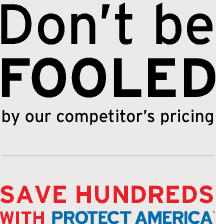
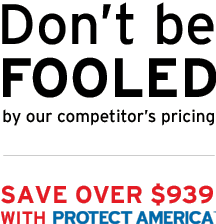
changed the package to reflect the current promotion

diff --git a/src/templates/radioshack/static/css/style.css b/src/templates/radioshack/static/css/style.css
@@ -14,6 +14,8 @@ blockquote,q{quotes:"" "";}
 .relative{position:relative!important;}
 .text-center{text-align:center;}
 .float_left{float:left;}
+.fade-slow{-webkit-transition:background-color 0.7s ease-out;-moz-transition:background-color 0.7s ease-out;transition:background-color 0.7s ease-out;}
+.fade-fast{-webkit-transition:background-color 0.3s ease-out;-moz-transition:background-color 0.3s ease-out;transition:background-color 0.3s ease-out;}
 body{background:#eae8e6;text-align:center;}body #protect-america-content{width:960px;text-align:left;overflow:visible;margin:0 auto;position:relative;}
 .clear{clear:both;height:0;line-height:0;}
 #interiorWrapper{overflow:visible;margin:0 auto;}
@@ -32,9 +34,11 @@ sup{font-size:10px;position:relative;bottom:2px;}
 #call-box{background:#ffffff;border:1px solid #cccccc;padding:8px;}#call-box h2{color:red;float:left;font-weight:800;font-size:42px;line-height:64px;}
 #call-box img{float:right;}
 #comparison-chart{margin:32px 0;}#comparison-chart #dont-be-fooled{float:left;margin:12px 26px 0 0;}
-#comparison-chart table{width:718px;border:1px solid #cccccc;background:#ffffff;float:left;}#comparison-chart table thead th{padding:8px 0;border-bottom:1px solid #ccc;text-align:center;}#comparison-chart table thead th span{display:block;color:#0069aa;font-weight:800;padding-bottom:4px;}
-#comparison-chart table thead th img{display:inline;margin:0 auto;}
-#comparison-chart table td{height:32px;line-height:32px;padding:2px 0;}
+#comparison-chart table{width:718px;border:1px solid #cccccc;background:#ffffff;float:left;}#comparison-chart table thead tr th{padding:8px 0;border-bottom:1px solid #ccc;text-align:center;}#comparison-chart table thead tr th span{display:block;color:#0069aa;font-weight:800;padding-bottom:4px;}
+#comparison-chart table thead tr th img{display:inline;margin:0 auto;}
+#comparison-chart table thead tr:hover{background:#ffffff;}#comparison-chart table thead tr:hover .pa{background:#f2fdff;}
+#comparison-chart table tr:hover{background:#efefef;}#comparison-chart table tr:hover .pa{background:#d9f2ff;}
+#comparison-chart table tr td{height:32px;line-height:32px;padding:2px 0;}
 #comparison-chart table .title{font-size:12px;text-align:right;padding-right:16px;}
 #comparison-chart table .pa{background:#f2fdff;}
 #comparison-chart table .item-count{font-size:16px;text-align:center;color:#555555;}#comparison-chart table .item-count.pa{color:#0069aa;font-size:21px;font-weight:800;}

diff --git a/src/templates/radioshack/static/less/style.less b/src/templates/radioshack/static/less/style.less
@@ -19,11 +19,28 @@ html,body,div,span,applet,object,iframe,h1,h2,h3,h4,h5,h6,p,blockquote,pre,a,abb
 @red: #e51b24;
 
 @v-light-blue: #f2fdff;
+@light-blue: #d9f2ff;
+
 @blue: #0069aa;
 
 @radioshack-grey: #eae8e6;
 
 /********* Global **************/
+
+.fade-slow {
+    -webkit-transition: background-color .7s ease-out;
+    -moz-transition: background-color .7s ease-out;
+    transition: background-color .7s ease-out;
+
+
+}
+.fade-fast {
+    -webkit-transition: background-color .3s ease-out;
+    -moz-transition: background-color .3s ease-out;
+    transition: background-color .3s ease-out;
+
+}
+
 
 body {
     background: @radioshack-grey;
@@ -184,26 +201,43 @@ sup {
         background: @white;
         float: left;
         thead {
-            th {
-                padding: 8px 0;
-                border-bottom: 1px solid #ccc;
-                text-align: center;
-                span {
-                    display: block;
-                    color: @blue;
-                    font-weight: 800;
-                    padding-bottom: 4px;
+            tr {
+                th {
+                    padding: 8px 0;
+                    border-bottom: 1px solid #ccc;
+                    text-align: center;
+                    span {
+                        display: block;
+                        color: @blue;
+                        font-weight: 800;
+                        padding-bottom: 4px;
+                    }
+                    img {
+                        display: inline;
+                        margin: 0 auto;
+                    }
                 }
-                img {
-                    display: inline;
-                    margin: 0 auto;
+                &:hover {
+                    background: @white;
+                    .pa {
+                        background: @v-light-blue;
+                    }
                 }
             }
+
         }
-        td {
-            height: 32px;
-            line-height: 32px;
-            padding: 2px 0;
+        tr {
+            &:hover {
+                background: #efefef;
+                .pa {
+                    background: @light-blue;
+                }
+            }
+            td {
+                height: 32px;
+                line-height: 32px;
+                padding: 2px 0;
+            }
         }
         .title {
             font-size: 12px;

diff --git a/src/templates/radioshack/_base.html b/src/templates/radioshack/_base.html
@@ -69,22 +69,23 @@
                 <tbody>
                     <tr>
                         <td class="title">Door / Window Sensors</td>
-                        <td class="item-count pa">10</td>
+                        <td class="item-count pa">7</td>
                         <td class="item-count">3</td>
                         <td class="item-count">3</td>
                     </tr>
                     <tr>
                         <td class="title">Motion Detector</td>
                         <td class="item-count pa">1</td>
-                        <td class="item-count">0</td>
-                        <td class="item-count">0</td>
+                        <td class="item-count">1</td>
+                        <td class="item-count">1</td>
                     </tr>
                     <tr>
                         <td class="title">Keychain Remote</td>
-                        <td class="item-count pa">1</td>
-                        <td class="item-count">1</td>
+                        <td class="item-count pa">2</td>
+                        <td class="item-count">0</td>
                         <td class="item-count">1</td>
                     </tr>
+                    <tr>
                         <td class="title price-divider">Installation Cost</td>
                         <td class="price red price-divider pa">FREE<sup>*</sup></td>
                         <td class="price price-divider">$99</td>
@@ -143,7 +144,7 @@
                 <div id="twenty-off-home-insurance">
                     <img src="{{ STATIC_URL }}img/20-off-homeowners-insurance.png" title="20% off your Homeowner Insurance" />
                     <h3>Save up to 20% on Homeowner's Insurance</h3>
-                    <p>Protecting your home and saving money</p>
+                    <p>Protecting your home while saving you money</p>
                 </div>
                 <div id="lifetime-warranty">
                     <img src="{{ STATIC_URL }}img/lifetime-warranty.png" title="Lifetime Warranty with your Security System" />

diff --git a/src/templates/radioshack/radioshack.html b/src/templates/radioshack/radioshack.html
@@ -456,7 +456,7 @@ And of course, RadioShack.com has all of the necessities that come in handy for 
 			<div class="blog">
 				<h4 class="sprite">VISIT OUR BLOG</h4>
 
-				<a href="http://blog.radioshack.com/" title="Special Offers, How-toâ€™s, Savings &amp; More!">Special Offers, How-to's, Savings &amp; More!</a>
+				<a href="http://blog.radioshack.com/" title="Special Offers, How-to's, Savings &amp; More!">Special Offers, How-to's, Savings &amp; More!</a>
 			</div>
 			<div class="team">
 				<h4 class="sprite">TEAM RADIOSHACK</h4>
